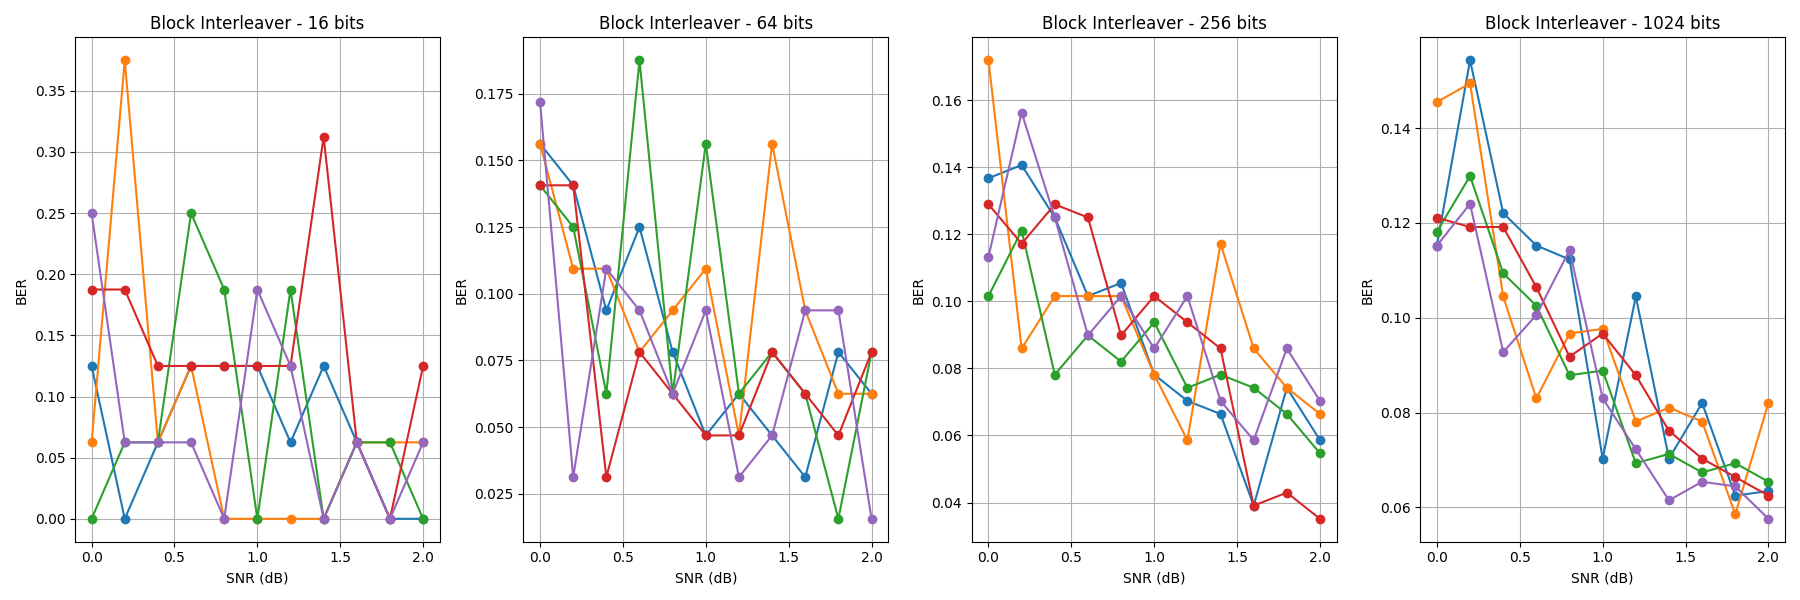
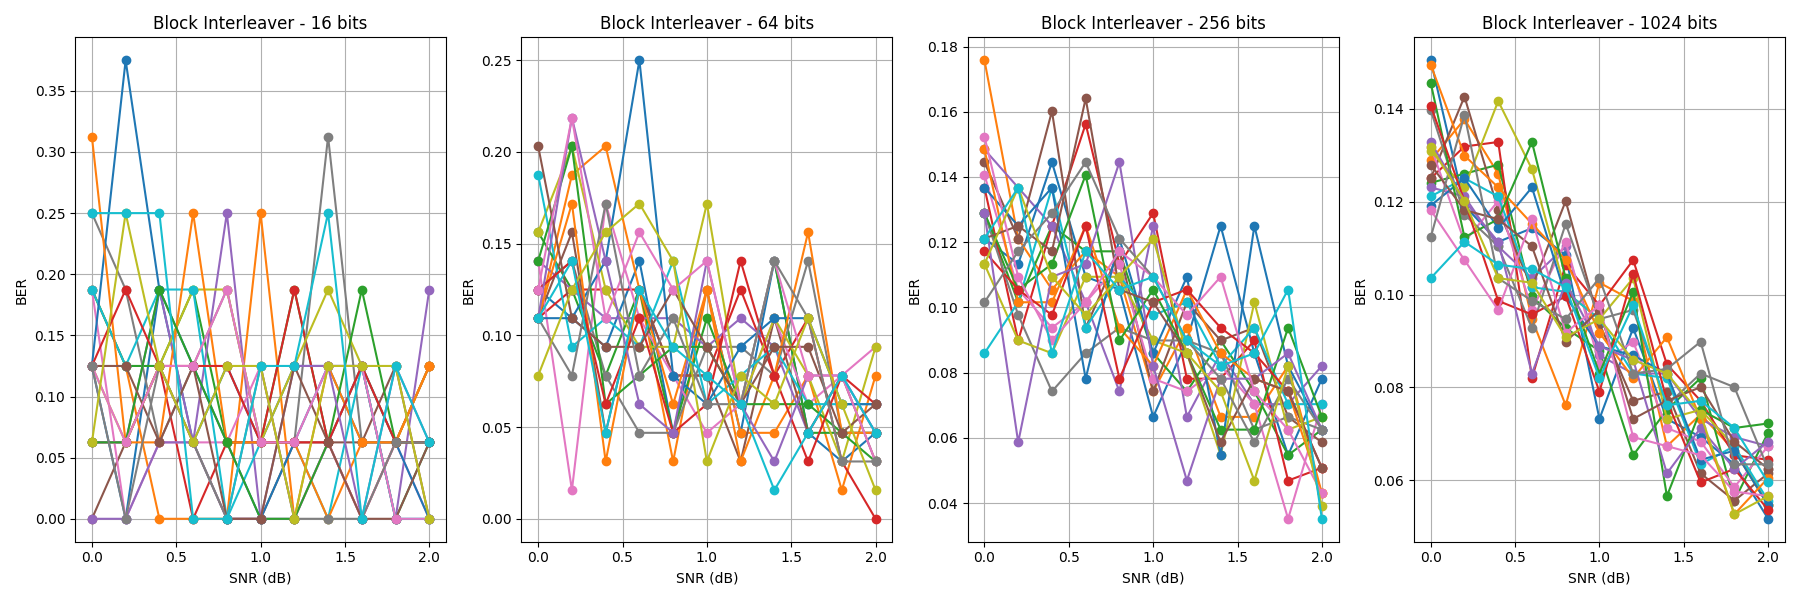
Combined Graph Generated

diff --git a/runner.py b/runner.py
@@ -8,9 +8,9 @@ sys.path.append(parent)
 from module import *
 
 def run_simulation(input_lengths, snr_values, iterations, rows, cols, 
-                   no_interleaver_decoder = soft_decision_decoder, 
-                   block_interleaver_decoder = soft_decision_decoder, 
-                   hybrid_interleaver_decoder = soft_decision_decoder):
+                   no_interleaver_decoder=soft_decision_decoder, 
+                   block_interleaver_decoder=soft_decision_decoder, 
+                   hybrid_interleaver_decoder=soft_decision_decoder):
     
     no_interleaver_bers = np.zeros((len(input_lengths), iterations, len(snr_values)))
     block_interleaver_bers = np.zeros((len(input_lengths), iterations, len(snr_values)))
@@ -19,12 +19,12 @@ def run_simulation(input_lengths, snr_values, iterations, rows, cols,
     for length_idx, input_length in enumerate(input_lengths):
         for iter_num in range(iterations):
             for snr_idx, snr in enumerate(snr_values):
-
                 input_data = np.random.randint(0, 2, input_length)
                 no_interleaver_bers[length_idx, iter_num, snr_idx] = simulate_no_interleaver(input_data, snr, no_interleaver_decoder)
                 block_interleaver_bers[length_idx, iter_num, snr_idx] = simulate_block_interleaver(input_data, snr, rows[length_idx], cols[length_idx], block_interleaver_decoder)
                 hybrid_interleaver_bers[length_idx, iter_num, snr_idx] = simulate_hybrid_interleaver(input_data, snr, hybrid_interleaver_decoder)
 
+    # Original individual iteration plots
     fig, axes = plt.subplots(1, len(input_lengths), figsize=(18, 6))
     for length_idx, input_length in enumerate(input_lengths):
         ax = axes[length_idx]
@@ -61,13 +61,37 @@ def run_simulation(input_lengths, snr_values, iterations, rows, cols,
         ax.set_ylabel('BER')
         ax.grid(True)
     plt.tight_layout()
-    plt.savefig(f'Graphs/Stiched/hybrid_interleaver_{input_length}.png')
+    plt.savefig(f'Graphs/Stiched/hybrid_interleaver_plots.png')
     plt.show()
 
+    # New averaged plots
+    fig, axes = plt.subplots(1, len(input_lengths), figsize=(18, 6))
+    for length_idx, input_length in enumerate(input_lengths):
+        ax = axes[length_idx]
+        
+        # Calculate the average BER across all iterations for each SNR value
+        avg_no_interleaver = np.mean(no_interleaver_bers[length_idx], axis=0)
+        avg_block_interleaver = np.mean(block_interleaver_bers[length_idx], axis=0)
+        avg_hybrid_interleaver = np.mean(hybrid_interleaver_bers[length_idx], axis=0)
+        
+        # Plot averaged lines for each interleaver type
+        ax.plot(snr_values, avg_no_interleaver, marker='o', label='No Interleaver')
+        ax.plot(snr_values, avg_block_interleaver, marker='o', label='Block Interleaver')
+        ax.plot(snr_values, avg_hybrid_interleaver, marker='o', label='Hybrid Interleaver')
+        
+        ax.set_title(f'Average BER for {input_length} bits')
+        ax.set_xlabel('SNR (dB)')
+        ax.set_ylabel('BER')
+        ax.legend()
+        ax.grid(True)
+
+    plt.tight_layout()
+    plt.savefig(f'Graphs/Stiched/average_interleaver_plots.png')
+    plt.show()
 
 input_lengths = [16, 64, 256, 1024]
 snr_values = [0, 0.2, 0.4, 0.6, 0.8, 1.0, 1.2, 1.4, 1.6, 1.8, 2.0]
-iterations = 5 
+iterations = 20
 
 rows = [2, 4, 16, 32]
 cols = [8, 16, 16, 32]

diff --git a/RL_runner.py b/RL_runner.py
@@ -10,7 +10,7 @@ def lr_schedule(progress_remaining):
     return max(1e-4 * progress_remaining, min_lr)
 
 # Hyperparameters for training - can be modified
-episodes = 100
+episodes = 10
 timesteps = 5000
 stepcount_thresh = 1000
 
